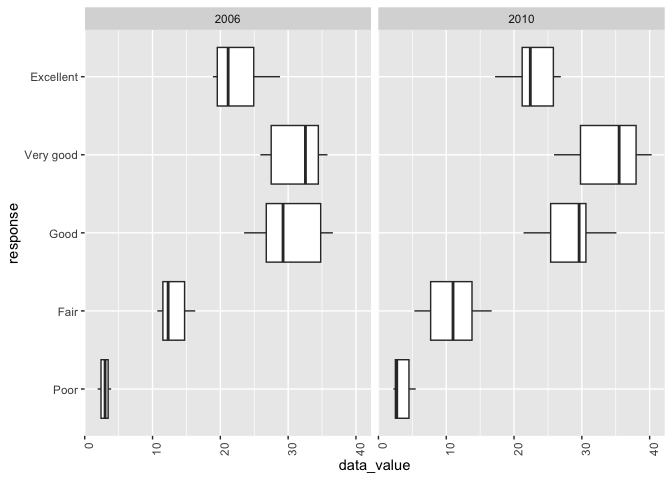
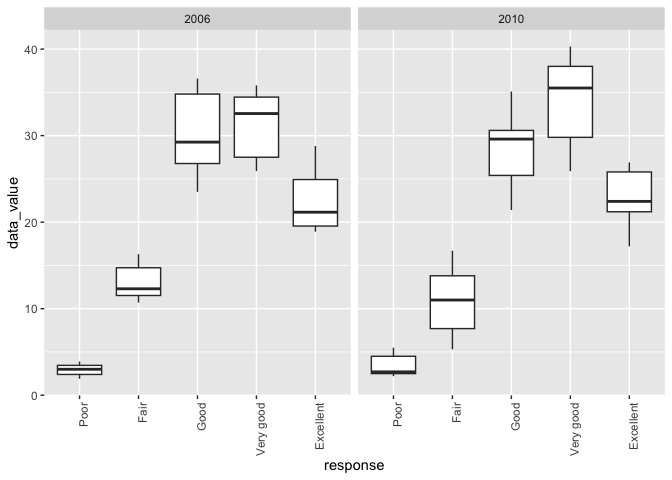
added box plot for Q2

diff --git a/p8105_hw3_yd2739.md b/p8105_hw3_yd2739.md
@@ -371,8 +371,7 @@ NY_distribution_boxplot = NY_distribution_df|>
   ggplot(aes(x = response, y = data_value)) + 
   geom_boxplot()+
   facet_grid(. ~ year)+
-  theme(axis.text.x = element_text(angle = 90, vjust = 1, hjust=1))+
-  coord_flip()
+  theme(axis.text.x = element_text(angle = 90, vjust = 1, hjust=1))
 NY_distribution_boxplot
 ```
 
